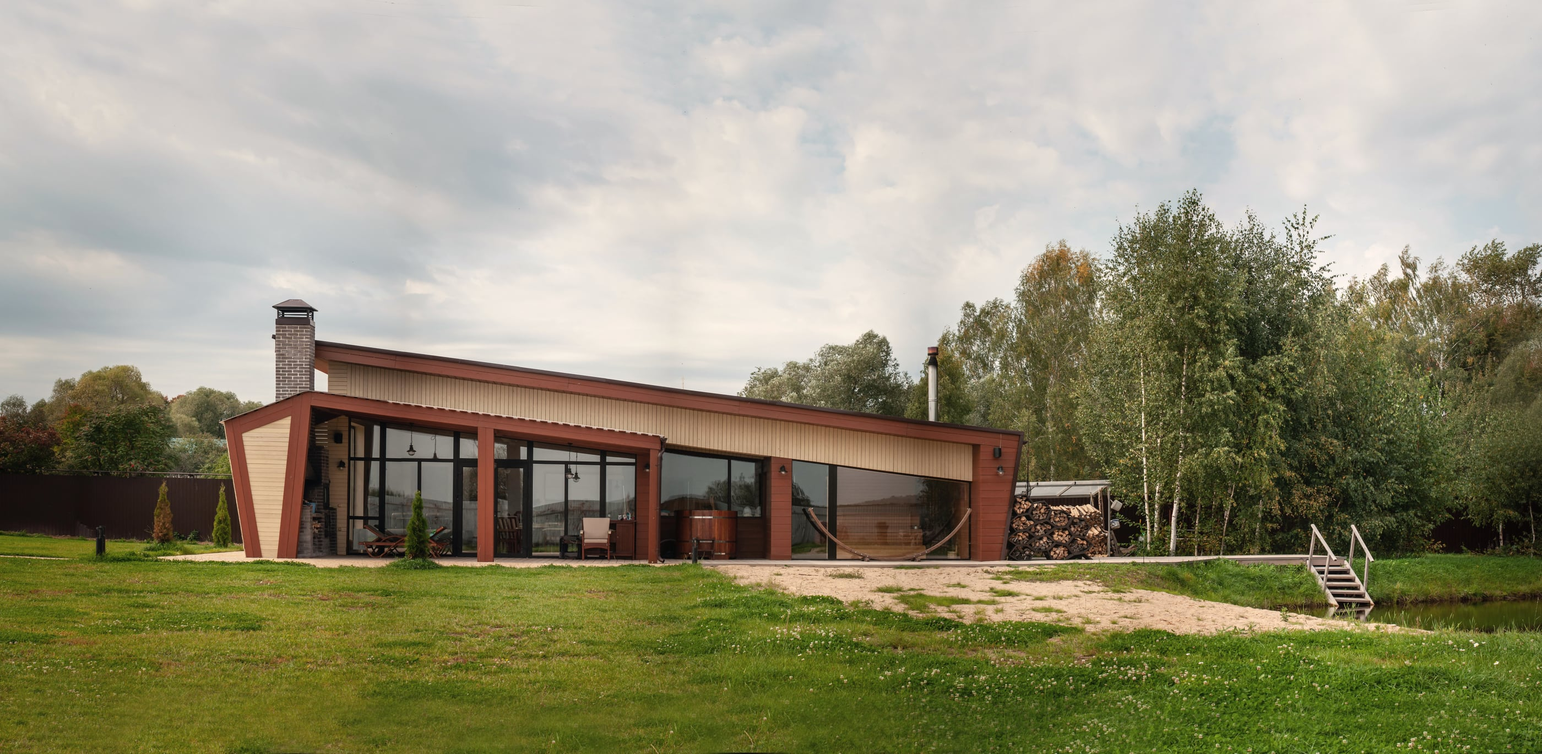
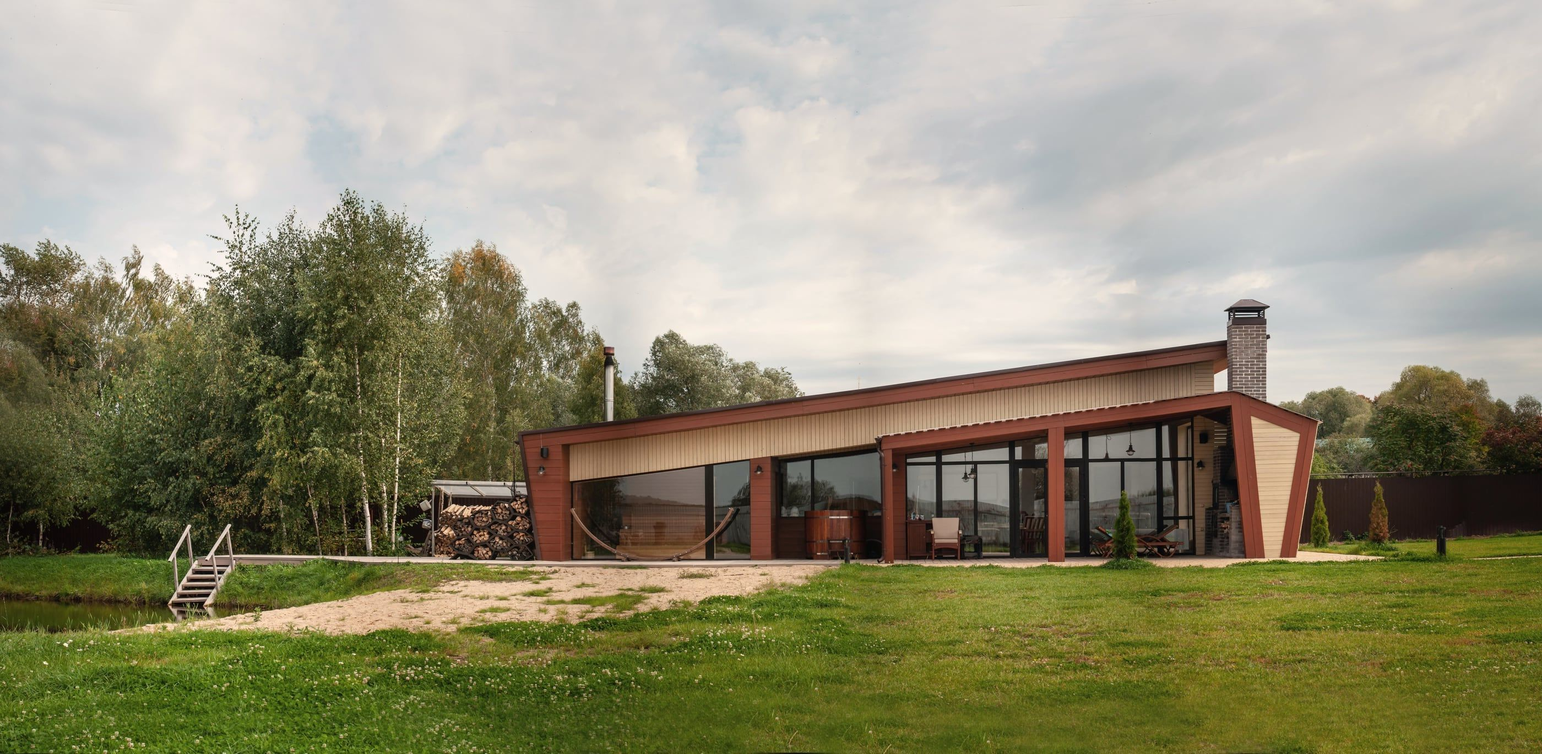
Частные владения: баня отзеркалена, фасад не под текстом.

diff --git a/sites/irina-architecture/lib/home.ts b/sites/irina-architecture/lib/home.ts
@@ -1,1 +1,1 @@
-export const homeHTML = "\n    <section class=\"hero\" id=\"top\" aria-label=\"Создаю многослойные, осмысленные проекты\">\n      <div class=\"hero-media\" aria-hidden=\"true\">\n        <div class=\"hero-panel\">\n          <img src=\"/assets/portrait.jpg\" alt=\"\">\n        </div>\n        <div class=\"hero-panel\">\n          <img src=\"/assets/mansion-hero.jpg?flip=1\" alt=\"\">\n        </div>\n      </div>\n\n      <div class=\"hero-inner\">\n        <div class=\"hero-topline\">\n          <span>Архитектор · Владимир</span>\n          <span>Место / Смысл / Функция</span>\n          <span>Проектное бюро полного цикла</span>\n        </div>\n\n        <div class=\"hero-content\">\n          <h1 id=\"hero-title\" class=\"visually-hidden\">Архитектура в контексте места</h1>\n          <p class=\"hero-description\">Создаю многослойные, осмысленные проекты — от частных домов до туристических комплексов и общественных пространств.</p>\n          <a class=\"hero-action\" href=\"/portfolio\"><span class=\"hero-action-icon\" aria-hidden=\"true\"><svg viewBox=\"0 0 24 24\" fill=\"none\"><path d=\"M4 12h16m-5-5 5 5-5 5\" stroke=\"currentColor\" stroke-width=\"1.25\" stroke-linecap=\"round\" stroke-linejoin=\"round\"/></svg></span><span>Смотреть работы</span></a>\n        </div>\n      </div>\n      <span class=\"scroll-note\">Листайте вниз</span>\n    </section>\n\n    <section class=\"section\" id=\"about\">\n      <div class=\"intro-grid\">\n        <p class=\"section-label reveal home-section-label\">01 — Подход</p>\n        <h2 class=\"intro-title reveal\">Проект = решение</h2>\n        <div class=\"intro-copy reveal\">\n          <p>Я создаю современную архитектуру, всегда глубоко в контексте задачи, всегда многослойную и осмысленную. За каждым проектом стоит моё проектное бюро, комплексная экспертиза и умение решать задачи любой сложности на своей земле. Наши проекты живут, работают и помогают заказчикам достигать их целей — уверенно и надолго.</p>\n          <div class=\"micro-list\" aria-label=\"Принципы работы\">\n            <div class=\"micro-item\"><span>P/01</span>Контекст</div>\n            <div class=\"micro-item\"><span>P/02</span>Экспертиза</div>\n            <div class=\"micro-item\"><span>P/03</span>Реализация</div>\n          </div>\n        </div>\n      </div>\n    </section>\n\n    <div class=\"marquee\" aria-label=\"Компетенции бюро\">\n      <div class=\"marquee-track\">\n        <div class=\"marquee-group\">\n          <span class=\"marquee-item\">Мастер-планирование</span>\n          <span class=\"marquee-item\">Архитектурные концепции</span>\n          <span class=\"marquee-item\">Проектирование</span>\n          <span class=\"marquee-item\">Авторский надзор</span>\n          <span class=\"marquee-item\">Управление строительством</span>\n          <span class=\"marquee-item\">Исследования</span>\n        </div>\n        <div class=\"marquee-group\" aria-hidden=\"true\">\n          <span class=\"marquee-item\">Мастер-планирование</span>\n          <span class=\"marquee-item\">Архитектурные концепции</span>\n          <span class=\"marquee-item\">Проектирование</span>\n          <span class=\"marquee-item\">Авторский надзор</span>\n          <span class=\"marquee-item\">Управление строительством</span>\n          <span class=\"marquee-item\">Исследования</span>\n        </div>\n      </div>\n    </div>\n\n    <section class=\"section directions\" id=\"directions\">\n      <div class=\"section-head reveal\">\n        <div>\n          <p class=\"section-label home-section-label\">02 — Направления</p>\n          <h2>Четыре направления работы</h2>\n        </div>\n        <span class=\"section-index\">FIELDS / 04</span>\n      </div>\n\n      <div class=\"direction-grid\">\n        <a href=\"/napravleniya/vladimir\" class=\"direction-card reveal\">\n          <div class=\"media-frame\">\n            <img src=\"/assets/vladimir-assumption-context.jpg\" alt=\"Владимир: Успенский собор и городская панорама\" loading=\"lazy\">\n            \n          </div>\n          <div class=\"direction-meta\">\n            <div>\n              <span class=\"direction-kicker\">Context / 01</span>\n              <h3>Владимирский контекст</h3>\n              <p>Владимирская земля для меня не фон, а родной контекст. Развиваю местную школу и собираю решение, уместное именно здесь. Мы дома: знаем людей, процессы и ограничения. Главное — исследование, концепция, облик и мастер-план, с которыми можно выходить на защиту.</p>\n            </div>\n            <span class=\"direction-action\"><span class=\"direction-link-arrow\" aria-hidden=\"true\"><svg viewBox=\"0 0 24 24\" fill=\"none\"><path d=\"M4 12h16m-5-5 5 5-5 5\" stroke=\"currentColor\" stroke-width=\"1.25\" stroke-linecap=\"round\" stroke-linejoin=\"round\"/></svg></span><span>Как я работаю</span></span>\n          </div>\n        </a>\n\n        <a href=\"/portfolio\" id=\"hospitality\" class=\"direction-card direction-fullbleed reveal\">\n          <div class=\"media-frame\">\n            <img src=\"/assets/resort.jpg\" alt=\"Туристический комплекс в природном ландшафте\" loading=\"lazy\">\n            \n          </div>\n          <div class=\"direction-meta\">\n            <div>\n              <span class=\"direction-kicker\">Hospitality / 02</span>\n              <h3>Живое гостеприимство</h3>\n              <p>Беру туристический объект только если вижу, как он будет привлекать гостей, удерживать их и вызывать повторный спрос. Архитектура здесь не декорация, а причина выбрать место и точка роста территории, а не просто здание на участке. Соединяю образ, экономику, опыт гостя и реализацию. Отличаю то, что красиво открывается, от того, что потом живёт.</p>\n            </div>\n            <span class=\"direction-action\"><span class=\"direction-link-arrow\" aria-hidden=\"true\"><svg viewBox=\"0 0 24 24\" fill=\"none\"><path d=\"M4 12h16m-5-5 5 5-5 5\" stroke=\"currentColor\" stroke-width=\"1.25\" stroke-linecap=\"round\" stroke-linejoin=\"round\"/></svg></span><span>Как я работаю</span></span>\n          </div>\n        </a>\n\n        <a href=\"/consulting\" class=\"direction-card reveal\">\n          <div class=\"media-frame\">\n            <img src=\"/assets/consulting-meeting.jpg?v=3\" alt=\"Разговор в кабинете: стол, бумаги и два кресла\" loading=\"lazy\">\n            \n          </div>\n          <div class=\"direction-meta\">\n            <div>\n              <span class=\"direction-kicker\">Consulting / 03</span>\n              <h3>Консалтинг</h3>\n              <p>Можно консультироваться, не запуская проектирование или стройку. Я сама предлагаю этот шаг: разобраться в деталях и наметить путь. Рекомендации — из исследования и практики, не из общих схем. Смотрю задачу целиком: смысл, архитектура, экономика, согласования и то, как объект будет жить.</p>\n            </div>\n            <span class=\"direction-action\"><span class=\"direction-link-arrow\" aria-hidden=\"true\"><svg viewBox=\"0 0 24 24\" fill=\"none\"><path d=\"M4 12h16m-5-5 5 5-5 5\" stroke=\"currentColor\" stroke-width=\"1.25\" stroke-linecap=\"round\" stroke-linejoin=\"round\"/></svg></span><span>Как я работаю</span></span>\n          </div>\n        </a>\n\n        <a href=\"/portfolio\" class=\"direction-card direction-fullbleed reveal\">\n          <div class=\"media-frame\">\n            <img src=\"/assets/private-zaitsev.jpg?v=2\" alt=\"Баня Ивана Зайцева\" loading=\"lazy\" style=\"object-position:center 48%\">\n            \n          </div>\n          <div class=\"direction-meta\">\n            <div>\n              <span class=\"direction-kicker\">Private / 04</span>\n              <h3>Частные владения</h3>\n              <p>Частный дом для меня — не метраж, а способ жить на своей земле. Собираю без лишнего: характер из вашей жизни, традиции места и природа в ансамбле, быт на своих местах. На площадке — прямой разговор между вами, проектом и теми, кто строит: комфорт сегодня и запас на годы вперёд.</p>\n            </div>\n            <span class=\"direction-action\"><span class=\"direction-link-arrow\" aria-hidden=\"true\"><svg viewBox=\"0 0 24 24\" fill=\"none\"><path d=\"M4 12h16m-5-5 5 5-5 5\" stroke=\"currentColor\" stroke-width=\"1.25\" stroke-linecap=\"round\" stroke-linejoin=\"round\"/></svg></span><span>Как я работаю</span></span>\n          </div>\n        </a>\n      </div>\n    </section>\n\n    <section class=\"section projects\" id=\"projects\">\n      <div class=\"section-head reveal\">\n        <div>\n          <p class=\"section-label home-section-label\">03 — Избранные проекты</p>\n          <h2>Работы, которые живут</h2>\n        </div>\n        <a class=\"text-link\" href=\"/portfolio\">Все проекты</a>\n      </div>\n\n      <div class=\"project-grid\">\n        <a href=\"/portfolio/usadba\" class=\"project-card reveal\">\n          <div class=\"media-frame\">\n            <img src=\"/assets/mansion.jpg\" alt=\"Дом у бора\" loading=\"lazy\">\n            <span class=\"image-tag\">Реализован · 2024</span>\n          </div>\n          <div class=\"project-meta\">\n            <div>\n              <span class=\"project-kicker\">Частный дом · Владимирский край</span>\n              <h3>Дом у бора</h3>\n              <p>Спокойная архитектурная рама для света и лесного ландшафта.</p>\n            </div>\n            \n          </div>\n        </a>\n\n        <a href=\"/portfolio/complex\" class=\"project-card reveal\">\n          <div class=\"media-frame\">\n            <img src=\"/assets/resort.jpg\" alt=\"Двор на склоне\" loading=\"lazy\">\n            <span class=\"image-tag\">Реализован · 2024</span>\n          </div>\n          <div class=\"project-meta\">\n            <div>\n              <span class=\"project-kicker\">Гостеприимство · Владимирский край</span>\n              <h3>Двор на склоне</h3>\n              <p>Каменные и деревянные павильоны вокруг живого общего двора.</p>\n            </div>\n            \n          </div>\n        </a>\n\n        <a href=\"/portfolio/lodge\" class=\"project-card reveal\">\n          <div class=\"media-frame\">\n            <img src=\"/assets/lodge.jpg\" alt=\"Ночной сруб\" loading=\"lazy\">\n            <span class=\"image-tag\">В работе · 2024</span>\n          </div>\n          <div class=\"project-meta\">\n            <div>\n              <span class=\"project-kicker\">Гостеприимство · Владимирский край</span>\n              <h3>Ночной сруб</h3>\n              <p>Спа-лодж со сдержанным внутренним светом и выразительной фактурой дерева.</p>\n            </div>\n            \n          </div>\n        </a>\n\n        <a href=\"/portfolio/chapel\" class=\"project-card reveal\">\n          <div class=\"media-frame\">\n            <img src=\"/assets/chapel.jpg\" alt=\"Белая щель\" loading=\"lazy\">\n            <span class=\"image-tag\">Реализован · 2024</span>\n          </div>\n          <div class=\"project-meta\">\n            <div>\n              <span class=\"project-kicker\">Храм · Владимирский край</span>\n              <h3>Белая щель</h3>\n              <p>Белый камень, дерево и одно высокое окно как главный источник света.</p>\n            </div>\n            \n          </div>\n        </a>\n      </div>\n    </section>\n\n    <div class=\"practice-overview\"><section class=\"practice-panel reveal\" id=\"bureau\" aria-labelledby=\"bureau-overview-title\"><div><p class=\"section-label home-section-label\">04 — Проектное бюро</p><h2 id=\"bureau-overview-title\">От замысла до площадки</h2></div><div class=\"practice-panel-copy\"><p>Инженерная, градостроительная, экономическая и сервисная экспертиза. Своя команда ведёт проект как единую систему — от предпроектного анализа и рабочей документации до авторского надзора и управления строительством.</p><div class=\"practice-panel-image\"><img src=\"/assets/bureau.jpg\" alt=\"Работа архитектурного бюро\" loading=\"lazy\"></div><a class=\"text-link\" href=\"/bureau\">\n            <span>Начать диалог с бюро</span>\n            \n          </a></div></section><section class=\"practice-panel reveal\" id=\"lab\" aria-labelledby=\"lab-overview-title\"><div><p class=\"section-label home-section-label\">05 — Лаборатория</p><h2 id=\"lab-overview-title\">Лаборатория «Владимир»</h2></div><div class=\"practice-panel-copy\"><p>Независимый исследовательский проект по сохранению и развитию архитектурно-пространственного кода Владимирской земли. Исследуем наследие и ищем, как его принципы работают в современных условиях.</p><div class=\"practice-panel-image\"><img src=\"/assets/lab.jpg\" alt=\"Исследование архитектурного наследия Владимира\" loading=\"lazy\"></div><a class=\"text-link\" href=\"/lab\">\n          <span>Узнать о лаборатории</span>\n          \n        </a></div></section></div>\n\n    ";
+export const homeHTML = "\n    <section class=\"hero\" id=\"top\" aria-label=\"Создаю многослойные, осмысленные проекты\">\n      <div class=\"hero-media\" aria-hidden=\"true\">\n        <div class=\"hero-panel\">\n          <img src=\"/assets/portrait.jpg\" alt=\"\">\n        </div>\n        <div class=\"hero-panel\">\n          <img src=\"/assets/mansion-hero.jpg?flip=1\" alt=\"\">\n        </div>\n      </div>\n\n      <div class=\"hero-inner\">\n        <div class=\"hero-topline\">\n          <span>Архитектор · Владимир</span>\n          <span>Место / Смысл / Функция</span>\n          <span>Проектное бюро полного цикла</span>\n        </div>\n\n        <div class=\"hero-content\">\n          <h1 id=\"hero-title\" class=\"visually-hidden\">Архитектура в контексте места</h1>\n          <p class=\"hero-description\">Создаю многослойные, осмысленные проекты — от частных домов до туристических комплексов и общественных пространств.</p>\n          <a class=\"hero-action\" href=\"/portfolio\"><span class=\"hero-action-icon\" aria-hidden=\"true\"><svg viewBox=\"0 0 24 24\" fill=\"none\"><path d=\"M4 12h16m-5-5 5 5-5 5\" stroke=\"currentColor\" stroke-width=\"1.25\" stroke-linecap=\"round\" stroke-linejoin=\"round\"/></svg></span><span>Смотреть работы</span></a>\n        </div>\n      </div>\n      <span class=\"scroll-note\">Листайте вниз</span>\n    </section>\n\n    <section class=\"section\" id=\"about\">\n      <div class=\"intro-grid\">\n        <p class=\"section-label reveal home-section-label\">01 — Подход</p>\n        <h2 class=\"intro-title reveal\">Проект = решение</h2>\n        <div class=\"intro-copy reveal\">\n          <p>Я создаю современную архитектуру, всегда глубоко в контексте задачи, всегда многослойную и осмысленную. За каждым проектом стоит моё проектное бюро, комплексная экспертиза и умение решать задачи любой сложности на своей земле. Наши проекты живут, работают и помогают заказчикам достигать их целей — уверенно и надолго.</p>\n          <div class=\"micro-list\" aria-label=\"Принципы работы\">\n            <div class=\"micro-item\"><span>P/01</span>Контекст</div>\n            <div class=\"micro-item\"><span>P/02</span>Экспертиза</div>\n            <div class=\"micro-item\"><span>P/03</span>Реализация</div>\n          </div>\n        </div>\n      </div>\n    </section>\n\n    <div class=\"marquee\" aria-label=\"Компетенции бюро\">\n      <div class=\"marquee-track\">\n        <div class=\"marquee-group\">\n          <span class=\"marquee-item\">Мастер-планирование</span>\n          <span class=\"marquee-item\">Архитектурные концепции</span>\n          <span class=\"marquee-item\">Проектирование</span>\n          <span class=\"marquee-item\">Авторский надзор</span>\n          <span class=\"marquee-item\">Управление строительством</span>\n          <span class=\"marquee-item\">Исследования</span>\n        </div>\n        <div class=\"marquee-group\" aria-hidden=\"true\">\n          <span class=\"marquee-item\">Мастер-планирование</span>\n          <span class=\"marquee-item\">Архитектурные концепции</span>\n          <span class=\"marquee-item\">Проектирование</span>\n          <span class=\"marquee-item\">Авторский надзор</span>\n          <span class=\"marquee-item\">Управление строительством</span>\n          <span class=\"marquee-item\">Исследования</span>\n        </div>\n      </div>\n    </div>\n\n    <section class=\"section directions\" id=\"directions\">\n      <div class=\"section-head reveal\">\n        <div>\n          <p class=\"section-label home-section-label\">02 — Направления</p>\n          <h2>Четыре направления работы</h2>\n        </div>\n        <span class=\"section-index\">FIELDS / 04</span>\n      </div>\n\n      <div class=\"direction-grid\">\n        <a href=\"/napravleniya/vladimir\" class=\"direction-card reveal\">\n          <div class=\"media-frame\">\n            <img src=\"/assets/vladimir-assumption-context.jpg\" alt=\"Владимир: Успенский собор и городская панорама\" loading=\"lazy\">\n            \n          </div>\n          <div class=\"direction-meta\">\n            <div>\n              <span class=\"direction-kicker\">Context / 01</span>\n              <h3>Владимирский контекст</h3>\n              <p>Владимирская земля для меня не фон, а родной контекст. Развиваю местную школу и собираю решение, уместное именно здесь. Мы дома: знаем людей, процессы и ограничения. Главное — исследование, концепция, облик и мастер-план, с которыми можно выходить на защиту.</p>\n            </div>\n            <span class=\"direction-action\"><span class=\"direction-link-arrow\" aria-hidden=\"true\"><svg viewBox=\"0 0 24 24\" fill=\"none\"><path d=\"M4 12h16m-5-5 5 5-5 5\" stroke=\"currentColor\" stroke-width=\"1.25\" stroke-linecap=\"round\" stroke-linejoin=\"round\"/></svg></span><span>Как я работаю</span></span>\n          </div>\n        </a>\n\n        <a href=\"/portfolio\" id=\"hospitality\" class=\"direction-card direction-fullbleed reveal\">\n          <div class=\"media-frame\">\n            <img src=\"/assets/resort.jpg\" alt=\"Туристический комплекс в природном ландшафте\" loading=\"lazy\">\n            \n          </div>\n          <div class=\"direction-meta\">\n            <div>\n              <span class=\"direction-kicker\">Hospitality / 02</span>\n              <h3>Живое гостеприимство</h3>\n              <p>Беру туристический объект только если вижу, как он будет привлекать гостей, удерживать их и вызывать повторный спрос. Архитектура здесь не декорация, а причина выбрать место и точка роста территории, а не просто здание на участке. Соединяю образ, экономику, опыт гостя и реализацию. Отличаю то, что красиво открывается, от того, что потом живёт.</p>\n            </div>\n            <span class=\"direction-action\"><span class=\"direction-link-arrow\" aria-hidden=\"true\"><svg viewBox=\"0 0 24 24\" fill=\"none\"><path d=\"M4 12h16m-5-5 5 5-5 5\" stroke=\"currentColor\" stroke-width=\"1.25\" stroke-linecap=\"round\" stroke-linejoin=\"round\"/></svg></span><span>Как я работаю</span></span>\n          </div>\n        </a>\n\n        <a href=\"/consulting\" class=\"direction-card reveal\">\n          <div class=\"media-frame\">\n            <img src=\"/assets/consulting-meeting.jpg?v=3\" alt=\"Разговор в кабинете: стол, бумаги и два кресла\" loading=\"lazy\">\n            \n          </div>\n          <div class=\"direction-meta\">\n            <div>\n              <span class=\"direction-kicker\">Consulting / 03</span>\n              <h3>Консалтинг</h3>\n              <p>Можно консультироваться, не запуская проектирование или стройку. Я сама предлагаю этот шаг: разобраться в деталях и наметить путь. Рекомендации — из исследования и практики, не из общих схем. Смотрю задачу целиком: смысл, архитектура, экономика, согласования и то, как объект будет жить.</p>\n            </div>\n            <span class=\"direction-action\"><span class=\"direction-link-arrow\" aria-hidden=\"true\"><svg viewBox=\"0 0 24 24\" fill=\"none\"><path d=\"M4 12h16m-5-5 5 5-5 5\" stroke=\"currentColor\" stroke-width=\"1.25\" stroke-linecap=\"round\" stroke-linejoin=\"round\"/></svg></span><span>Как я работаю</span></span>\n          </div>\n        </a>\n\n        <a href=\"/portfolio\" class=\"direction-card direction-fullbleed reveal\">\n          <div class=\"media-frame\">\n            <img src=\"/assets/private-zaitsev.jpg?v=3\" alt=\"Баня Ивана Зайцева\" loading=\"lazy\" style=\"object-position:center 48%\">\n            \n          </div>\n          <div class=\"direction-meta\">\n            <div>\n              <span class=\"direction-kicker\">Private / 04</span>\n              <h3>Частные владения</h3>\n              <p>Частный дом для меня — не метраж, а способ жить на своей земле. Собираю без лишнего: характер из вашей жизни, традиции места и природа в ансамбле, быт на своих местах. На площадке — прямой разговор между вами, проектом и теми, кто строит: комфорт сегодня и запас на годы вперёд.</p>\n            </div>\n            <span class=\"direction-action\"><span class=\"direction-link-arrow\" aria-hidden=\"true\"><svg viewBox=\"0 0 24 24\" fill=\"none\"><path d=\"M4 12h16m-5-5 5 5-5 5\" stroke=\"currentColor\" stroke-width=\"1.25\" stroke-linecap=\"round\" stroke-linejoin=\"round\"/></svg></span><span>Как я работаю</span></span>\n          </div>\n        </a>\n      </div>\n    </section>\n\n    <section class=\"section projects\" id=\"projects\">\n      <div class=\"section-head reveal\">\n        <div>\n          <p class=\"section-label home-section-label\">03 — Избранные проекты</p>\n          <h2>Работы, которые живут</h2>\n        </div>\n        <a class=\"text-link\" href=\"/portfolio\">Все проекты</a>\n      </div>\n\n      <div class=\"project-grid\">\n        <a href=\"/portfolio/usadba\" class=\"project-card reveal\">\n          <div class=\"media-frame\">\n            <img src=\"/assets/mansion.jpg\" alt=\"Дом у бора\" loading=\"lazy\">\n            <span class=\"image-tag\">Реализован · 2024</span>\n          </div>\n          <div class=\"project-meta\">\n            <div>\n              <span class=\"project-kicker\">Частный дом · Владимирский край</span>\n              <h3>Дом у бора</h3>\n              <p>Спокойная архитектурная рама для света и лесного ландшафта.</p>\n            </div>\n            \n          </div>\n        </a>\n\n        <a href=\"/portfolio/complex\" class=\"project-card reveal\">\n          <div class=\"media-frame\">\n            <img src=\"/assets/resort.jpg\" alt=\"Двор на склоне\" loading=\"lazy\">\n            <span class=\"image-tag\">Реализован · 2024</span>\n          </div>\n          <div class=\"project-meta\">\n            <div>\n              <span class=\"project-kicker\">Гостеприимство · Владимирский край</span>\n              <h3>Двор на склоне</h3>\n              <p>Каменные и деревянные павильоны вокруг живого общего двора.</p>\n            </div>\n            \n          </div>\n        </a>\n\n        <a href=\"/portfolio/lodge\" class=\"project-card reveal\">\n          <div class=\"media-frame\">\n            <img src=\"/assets/lodge.jpg\" alt=\"Ночной сруб\" loading=\"lazy\">\n            <span class=\"image-tag\">В работе · 2024</span>\n          </div>\n          <div class=\"project-meta\">\n            <div>\n              <span class=\"project-kicker\">Гостеприимство · Владимирский край</span>\n              <h3>Ночной сруб</h3>\n              <p>Спа-лодж со сдержанным внутренним светом и выразительной фактурой дерева.</p>\n            </div>\n            \n          </div>\n        </a>\n\n        <a href=\"/portfolio/chapel\" class=\"project-card reveal\">\n          <div class=\"media-frame\">\n            <img src=\"/assets/chapel.jpg\" alt=\"Белая щель\" loading=\"lazy\">\n            <span class=\"image-tag\">Реализован · 2024</span>\n          </div>\n          <div class=\"project-meta\">\n            <div>\n              <span class=\"project-kicker\">Храм · Владимирский край</span>\n              <h3>Белая щель</h3>\n              <p>Белый камень, дерево и одно высокое окно как главный источник света.</p>\n            </div>\n            \n          </div>\n        </a>\n      </div>\n    </section>\n\n    <div class=\"practice-overview\"><section class=\"practice-panel reveal\" id=\"bureau\" aria-labelledby=\"bureau-overview-title\"><div><p class=\"section-label home-section-label\">04 — Проектное бюро</p><h2 id=\"bureau-overview-title\">От замысла до площадки</h2></div><div class=\"practice-panel-copy\"><p>Инженерная, градостроительная, экономическая и сервисная экспертиза. Своя команда ведёт проект как единую систему — от предпроектного анализа и рабочей документации до авторского надзора и управления строительством.</p><div class=\"practice-panel-image\"><img src=\"/assets/bureau.jpg\" alt=\"Работа архитектурного бюро\" loading=\"lazy\"></div><a class=\"text-link\" href=\"/bureau\">\n            <span>Начать диалог с бюро</span>\n            \n          </a></div></section><section class=\"practice-panel reveal\" id=\"lab\" aria-labelledby=\"lab-overview-title\"><div><p class=\"section-label home-section-label\">05 — Лаборатория</p><h2 id=\"lab-overview-title\">Лаборатория «Владимир»</h2></div><div class=\"practice-panel-copy\"><p>Независимый исследовательский проект по сохранению и развитию архитектурно-пространственного кода Владимирской земли. Исследуем наследие и ищем, как его принципы работают в современных условиях.</p><div class=\"practice-panel-image\"><img src=\"/assets/lab.jpg\" alt=\"Исследование архитектурного наследия Владимира\" loading=\"lazy\"></div><a class=\"text-link\" href=\"/lab\">\n          <span>Узнать о лаборатории</span>\n          \n        </a></div></section></div>\n\n    ";
